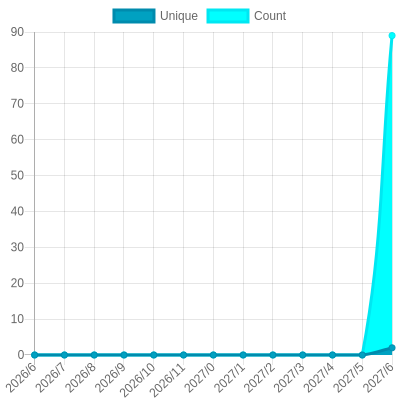
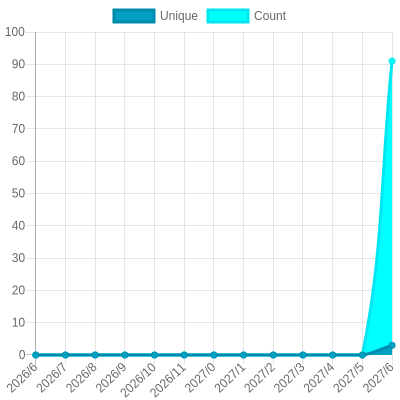
Update views

diff --git a/readme/1208882536/year.md b/readme/1208882536/year.md
@@ -23,10 +23,10 @@
 			<code>2026/7/1</code>
 		</td>
 		<td>
-			<code>2</code>
+			<code>3</code>
 		</td>
 		<td>
-			<code>89</code>
+			<code>91</code>
 		</td>
 	</tr>
 	<tr>
@@ -164,7 +164,7 @@
 </table>
 
 </details>
-<small><i>Last updated on 2026/7/18 1:19 AM UTC</i></small>
+<small><i>Last updated on 2026/7/18 7:24 AM UTC</i></small>
 
 ## ✂Copy and 📋 Paste
 ### SVG Badge

diff --git a/README.md b/README.md
@@ -53,7 +53,7 @@ The project created and maintained by [gayanvoice](https://github.com/gayanvoice
 	</tr>
 </table>
 
-<small><i>Last updated on 2026/7/18 1:19 AM UTC</i></small>
+<small><i>Last updated on 2026/7/18 7:25 AM UTC</i></small>
 
 ## ✂Copy and 📋 Paste
 ### Total Views Badge

diff --git a/readme/1075619275/year.md b/readme/1075619275/year.md
@@ -164,7 +164,7 @@
 </table>
 
 </details>
-<small><i>Last updated on 2026/7/18 1:19 AM UTC</i></small>
+<small><i>Last updated on 2026/7/18 7:25 AM UTC</i></small>
 
 ## ✂Copy and 📋 Paste
 ### SVG Badge
